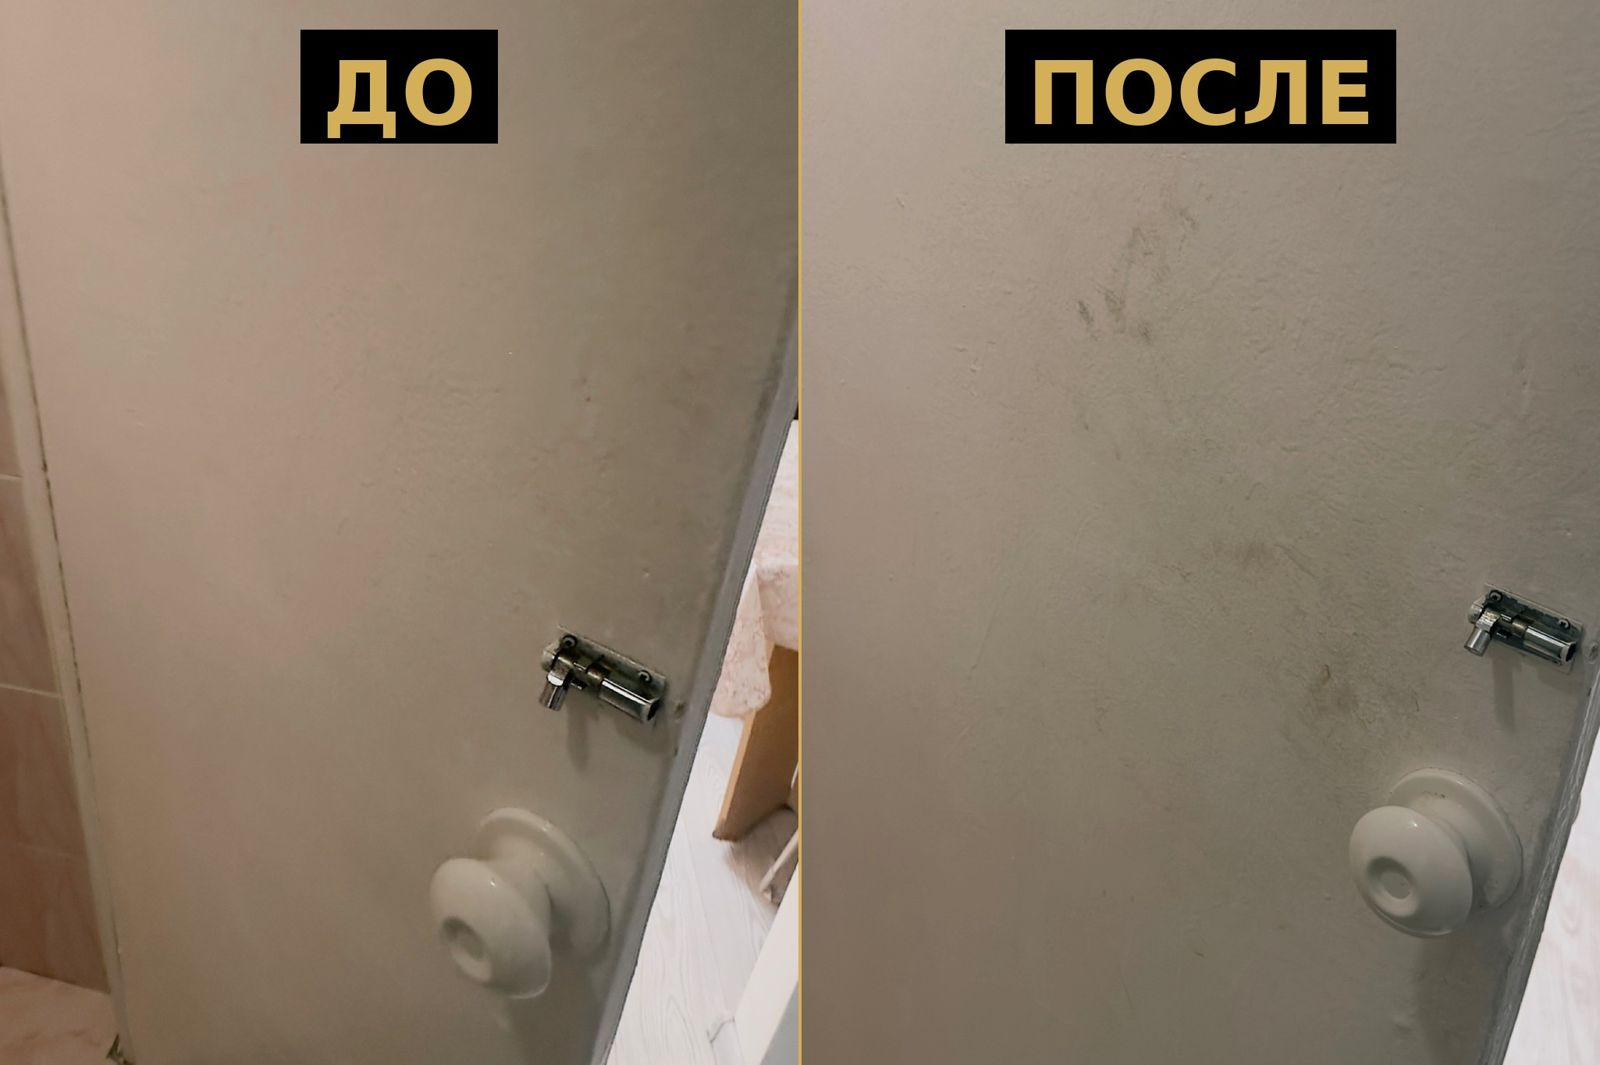
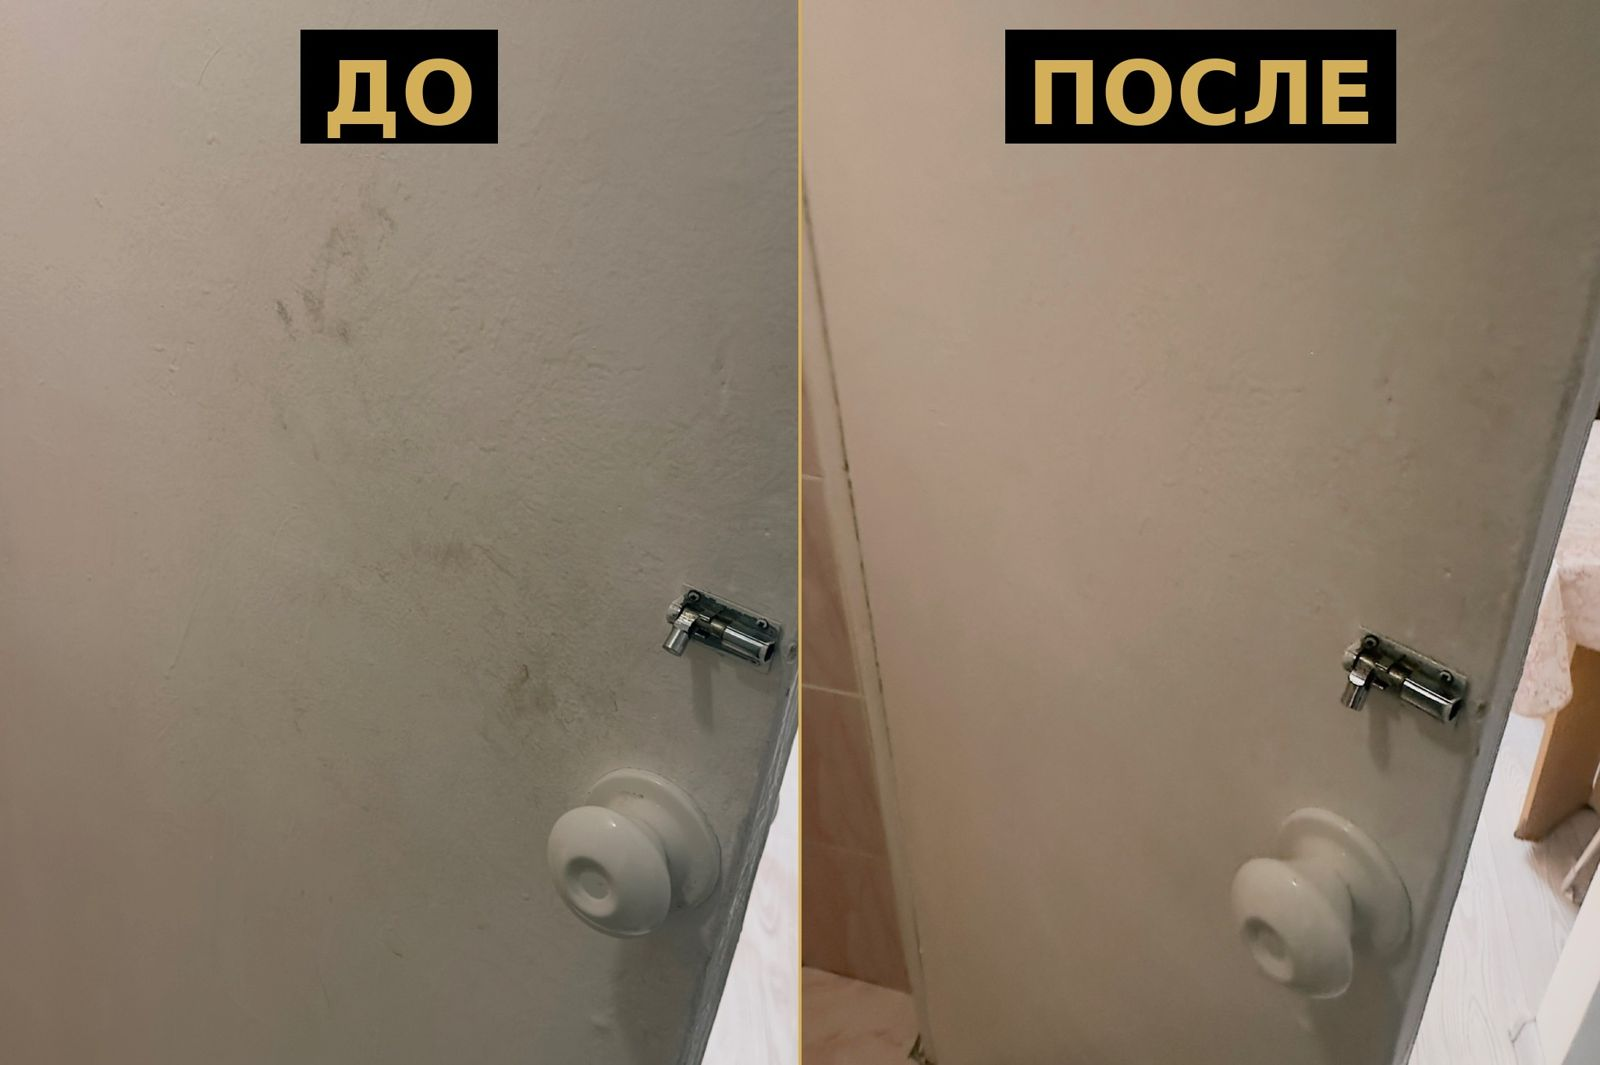
fix: перепутанные ДО/ПОСЛЕ в двух коллажах, дубль витрины

diff --git a/src/data/services.ts b/src/data/services.ts
@@ -221,7 +221,7 @@ export const SERVICES: ServiceDirection[] = [
       { name: "Витражи и витрины", price: "от 1 000 ₽/секция" },
     ],
     forWhom: ["Магазинам, салонам и кафе", "Офисным и торговым центрам", "Частным домам и коттеджам"],
-    gallery: gallery("moyka-fasadov", 10),
+    gallery: gallery("moyka-fasadov", 9),
     calcIdx: 5,
     seoTitle: "Мойка фасадов и вывесок в Челябинске — БелкаClean",
     seoDescription: "Мойка фасадов, вывесок, витрин и входных групп в Челябинске от 130 ₽/м². Удаление объявлений и клея, безопасная химия.",
